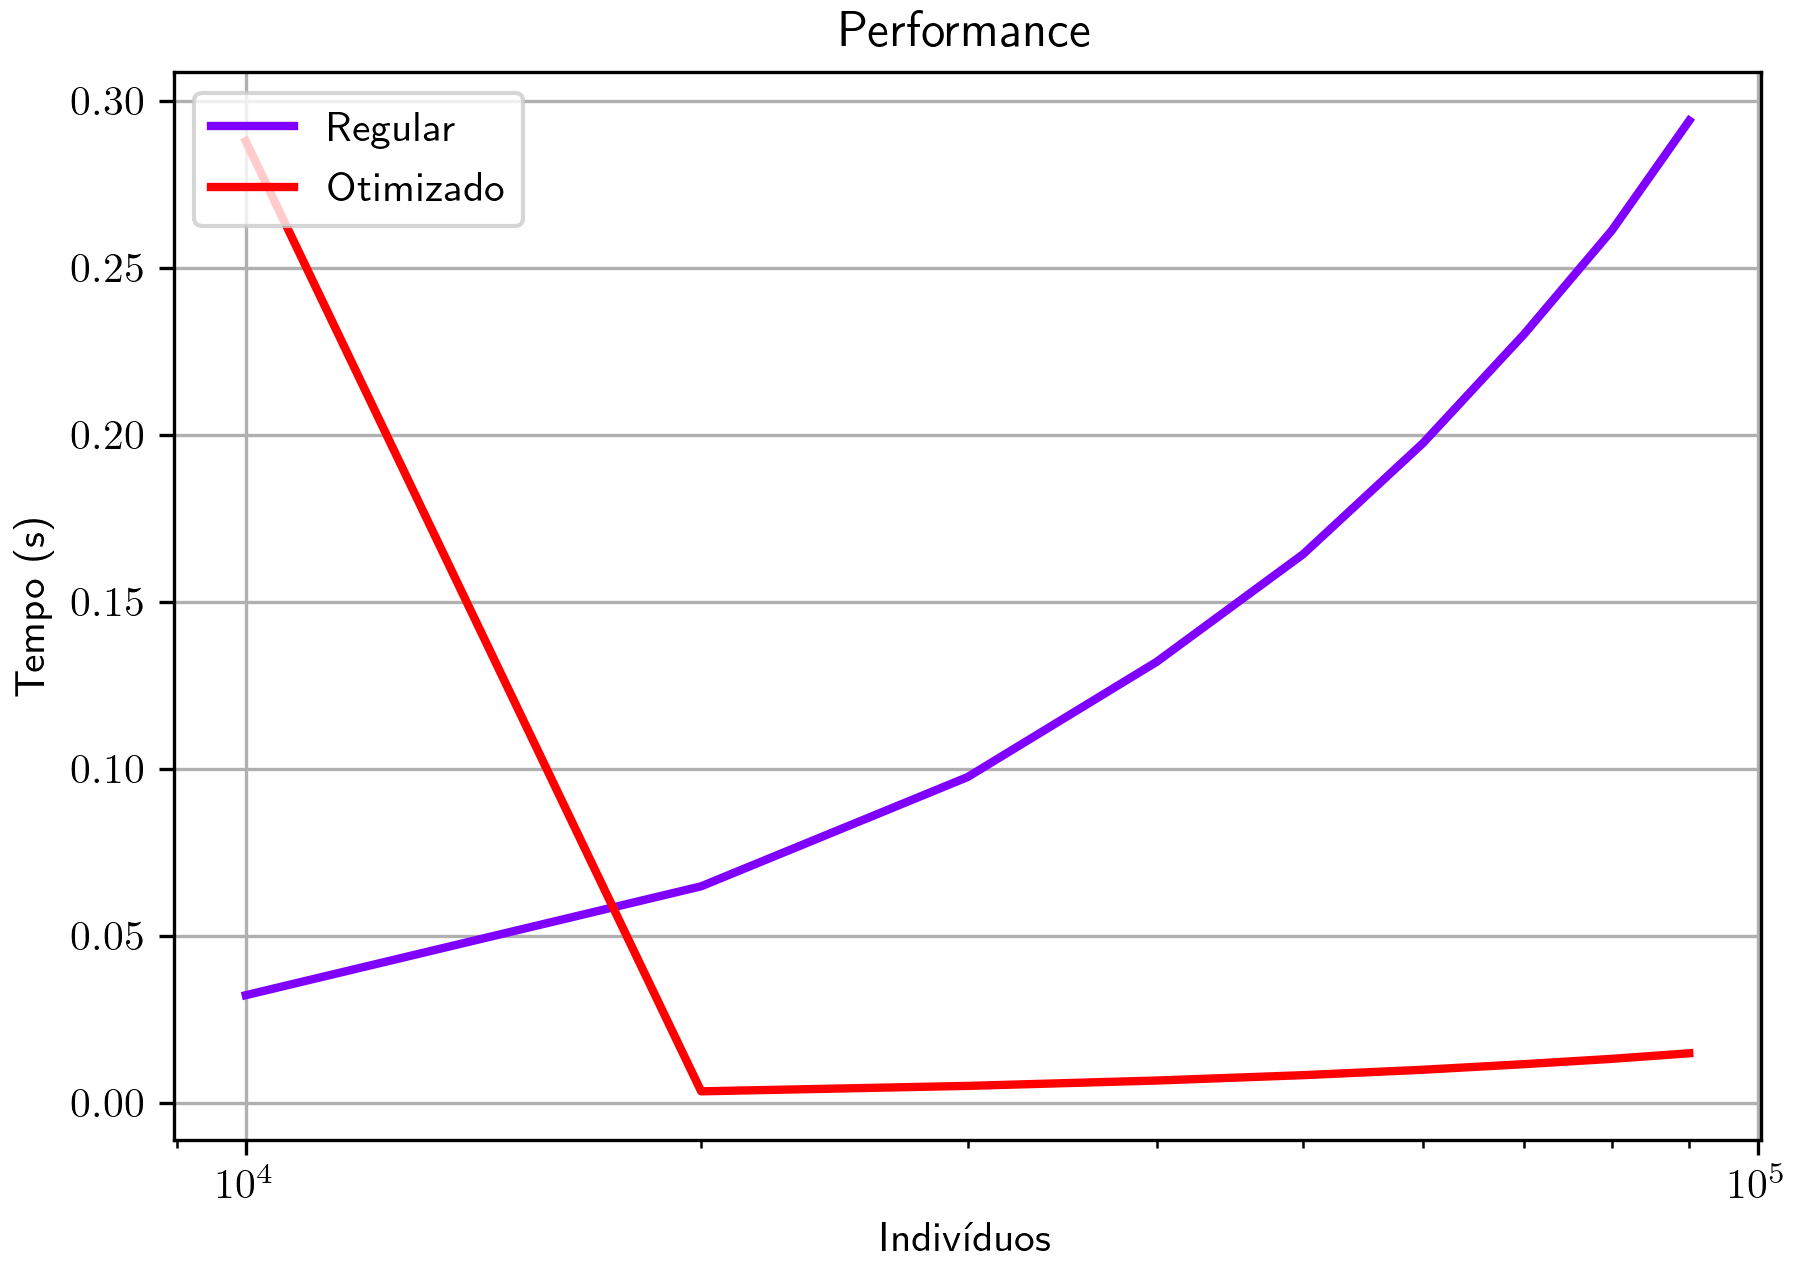
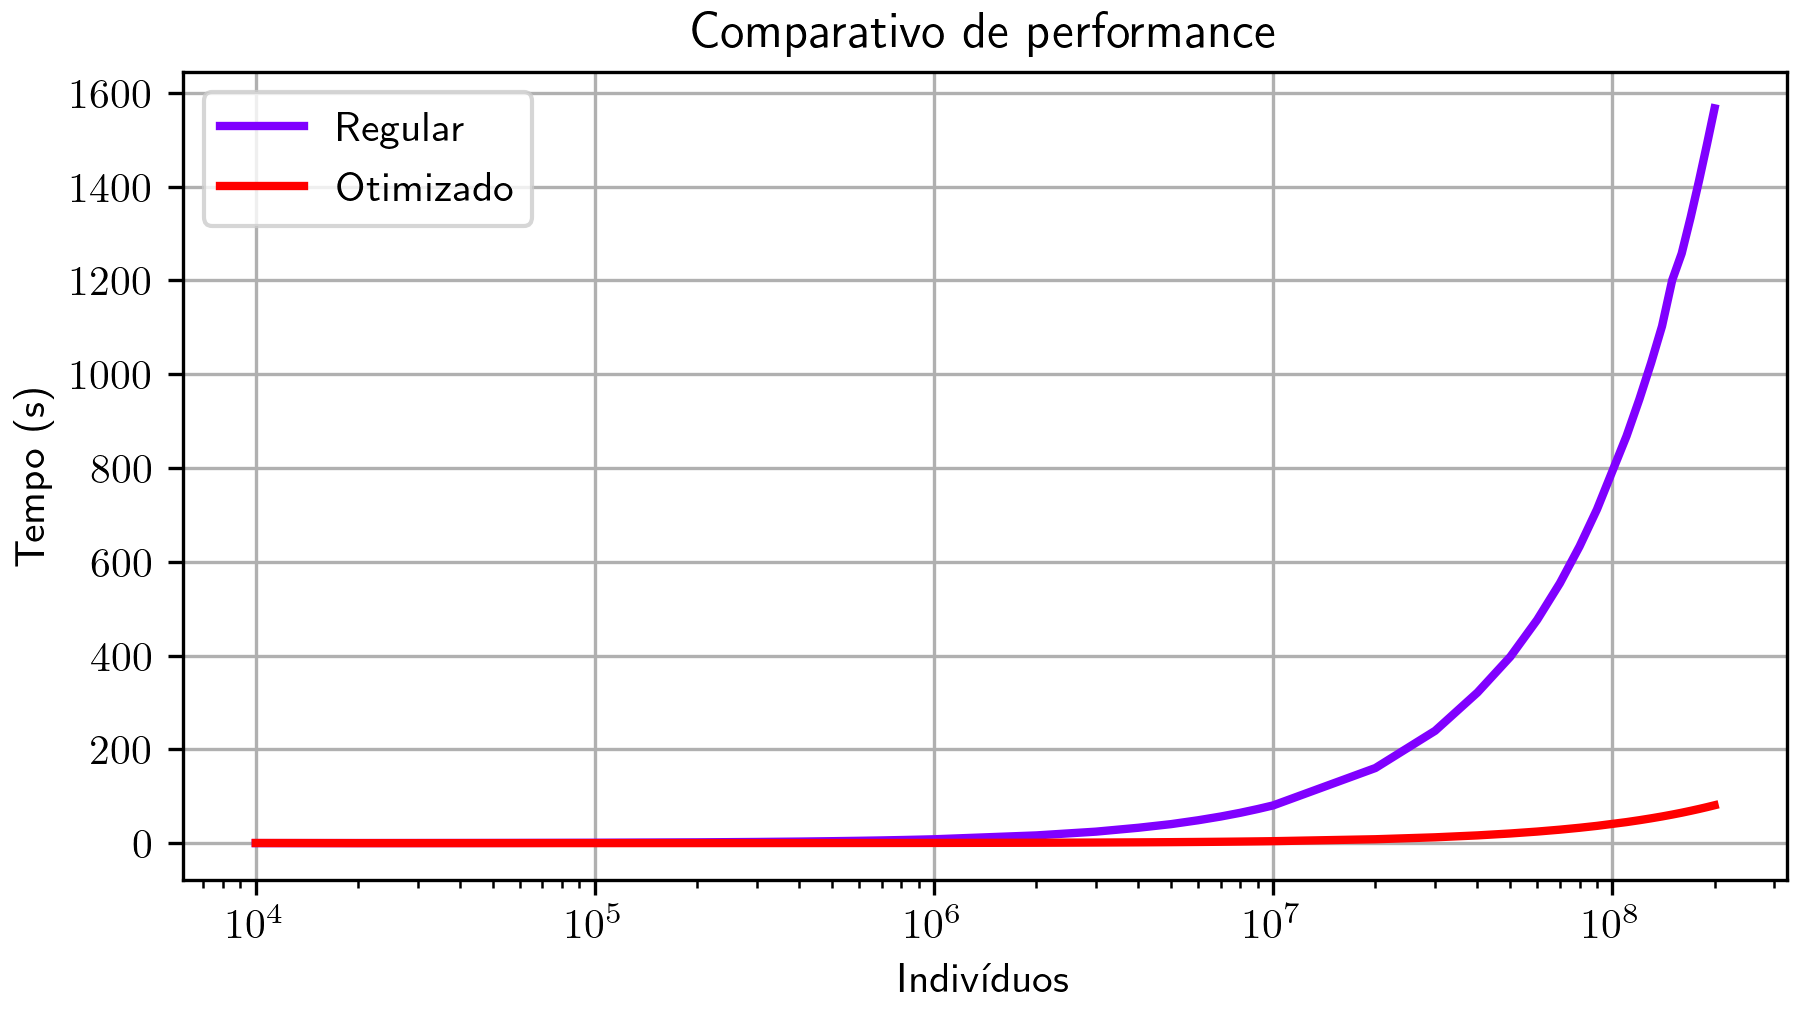
Experiment 2 finished

diff --git a/paper_enmc.py b/paper_enmc.py
@@ -49,12 +49,9 @@ R_0 = beta/gamma
 seed = 0
 
 print("""
-
-
 #
 # EXPERIMENT 1: Memory footprint
 # 
-
 """)
 #
 # EXPERIMENT 1
@@ -142,12 +139,9 @@ fig.savefig(filename, dpi=300)
 
 
 print("""
-
-
 #
 # EXPERIMENT 2: Compute time
 # 
-
 """)
 # Compute time: Naive vs Optimized.
 # 
@@ -160,11 +154,13 @@ print("""
 
 runs = 5
 N_range = np.array([
+    int(1e2), int(2e2), int(3e2), int(4e2), int(5e2), int(6e2), int(7e2), int(8e2), int(9e2),
+    int(1e3), int(2e3), int(3e3), int(4e3), int(5e3), int(6e3), int(7e3), int(8e3), int(9e3),
     int(1e4), int(2e4), int(3e4), int(4e4), int(5e4), int(6e4), int(7e4), int(8e4), int(9e4),
-    # int(1e5), int(2e5), int(3e5), int(4e5), int(5e5), int(6e5), int(7e5), int(8e5), int(9e5),
-    # int(1e6), int(2e6), int(3e6), int(4e6), int(5e6), int(6e6), int(7e6), int(8e6), int(9e6),
-    # int(1e7), int(2e7), int(3e7), int(4e7), int(5e7), int(6e7), int(7e7), int(8e7), int(9e7),
-    # int(1.1e8), int(1.2e8), int(1.3e8), int(1.4e8), int(1.5e8), int(1.6e8), int(1.7e8), int(1.8e8), int(1.9e8), int(2.0e8),
+    int(1e5), int(2e5), int(3e5), int(4e5), int(5e5), int(6e5), int(7e5), int(8e5), int(9e5),
+    int(1e6), int(2e6), int(3e6), int(4e6), int(5e6), int(6e6), int(7e6), int(8e6), int(9e6),
+    int(1e7), int(2e7), int(3e7), int(4e7), int(5e7), int(6e7), int(7e7), int(8e7), int(9e7),
+    int(1.1e8), int(1.2e8), int(1.3e8), int(1.4e8), int(1.5e8), int(1.6e8), int(1.7e8), int(1.8e8), int(1.9e8), int(2.0e8),
     ])
 
 compute_file = 'data/compute_naive.json'
@@ -190,7 +186,8 @@ else:
         fd.write(json.dumps(perf, cls=tp.NpEncoder))
 
 
-fig, ax = plt.subplots(figsize=(6,4.24),dpi=150, constrained_layout=True)
+#fig, ax = plt.subplots(figsize=(6,4.24),dpi=150, constrained_layout=True)
+fig, ax = plt.subplots(figsize=(6,3.375),dpi=150, constrained_layout=True)
 ax = tp.timeit_plot2D(perf, ax, 'Indivíduos', 'Comparativo de performance')
 ax.set_xscale('log')
 
@@ -200,12 +197,9 @@ fig.savefig(filename, dpi=300)
 
 
 print("""
-
-
 #
 # EXPERIMENT 3: Results
 # 
-
 """)
 # Experiment 3
 #

diff --git a/sir.py b/sir.py
@@ -129,7 +129,7 @@ def sir_sto_simul(N: int,
     
     data = [next(sir)]
 
-    if decimation == -1: decimation = int(N / 1000)
+    if (decimation == -1) and (N >= int(1e5)): decimation = int(N / 1000)
     # While there is simulation time and infecteds
     while (data[-1][0] < T) and (data[-1][2] > 0):
         for _ in range(decimation):
